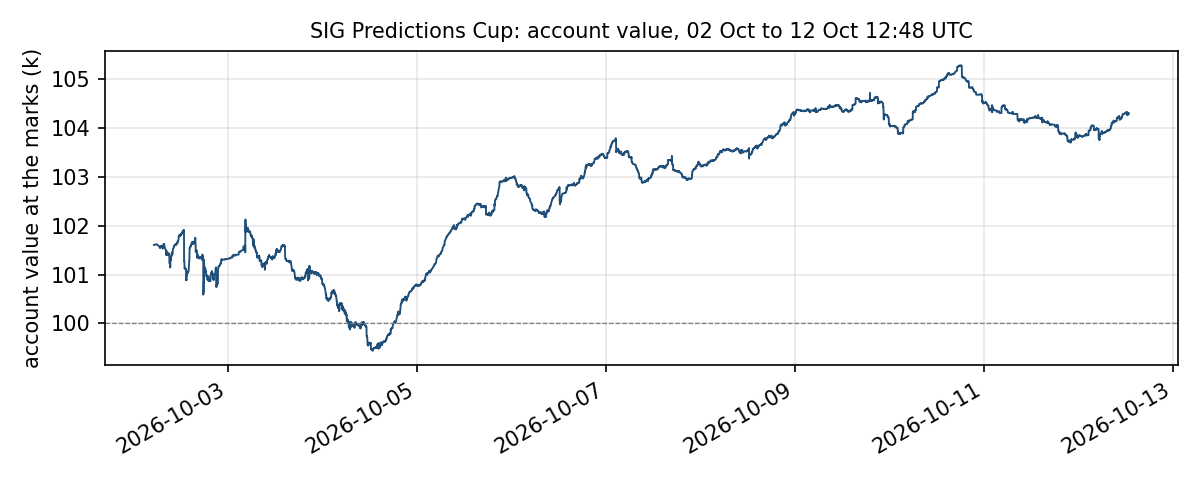
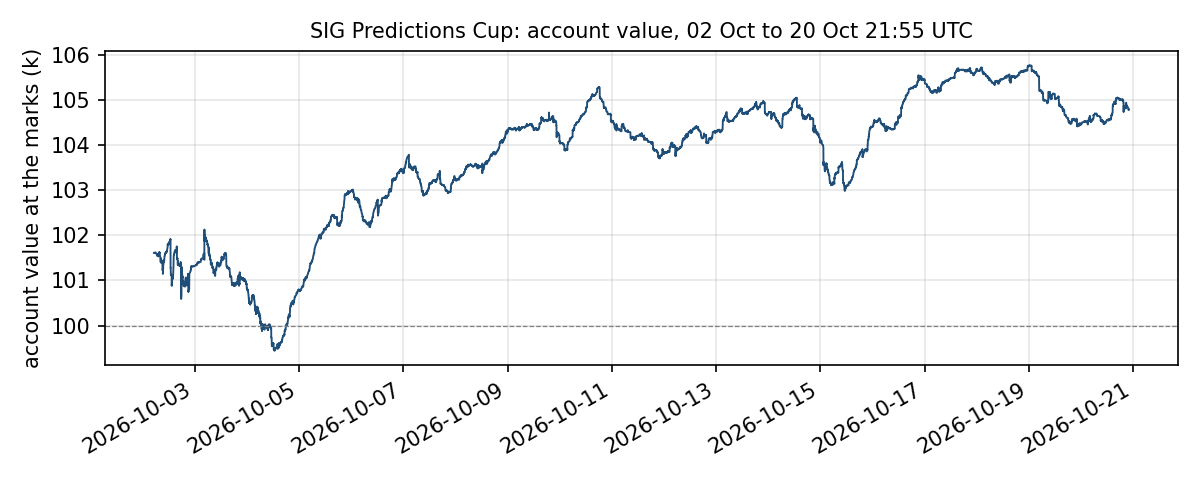
20 Oct: feed subscribes to granted channels, EV keeps last fair value; results to 20 Oct; release notes

diff --git a/mmbot/exchange.py b/mmbot/exchange.py
@@ -598,6 +598,7 @@ class Feed:
         self.wake = threading.Event()
         self.dirty, self.account_changed, self.resync = set(), False, True
         self.joined, self.revisions = set(), {}       # topics joined; topic -> last revision accepted
+        self.required, self.refused = set(), set()    # topics a session needs; optional topics refused (noted once)
         self.connected, self.stopping, self.socket_error = False, False, False
         self.thread = threading.Thread(target=lambda: asyncio.run(self.run()), name="realtime", daemon=True)
 
@@ -609,7 +610,7 @@ class Feed:
         self.stopping = True
 
     def healthy(self):
-        return self.connected and len(self.joined) >= 2
+        return self.connected and bool(self.required) and self.required <= self.joined
 
     def take(self):
         """(dirty eids, account changed?, resync?) since the last take."""
@@ -665,8 +666,11 @@ class Feed:
                 self.joined.discard(topic)
         if name == "SUBSCRIBED":
             self.flag_resync(f"subscribed to {topic.split(':')[0]}")
-        else:
+        elif topic in self.required:
             log.warning("realtime: %s -> %s %s", topic.split(":")[0], name, err or "")
+        elif topic not in self.refused:                # optional (not in the token's grant): say so once a session
+            self.refused.add(topic)
+            log.info("realtime: %s channel not granted (%s): books come from the 30 s check", topic.split(":")[0], name)
 
     def flag_resync(self, why):
         with self.lock:
@@ -711,7 +715,15 @@ class Feed:
         await client.connect()
         try:
             await client.set_auth(tok["token"])
-            topics = [f"tournament:{self.tid}", tok["channels"]["user"]]
+            # The token says which private channels this key may read. Since 12 Oct it grants only the user
+            # channel; the tournament channel (which books changed) is tried but a session lives without it.
+            granted = dict(tok.get("channels") or {})
+            topics = list(granted.values())
+            tournament = granted.get("tournament", f"tournament:{self.tid}")
+            if tournament not in topics:
+                topics.append(tournament)
+            with self.lock:
+                self.required, self.refused = set(granted.values()), set()
             for topic in topics:
                 ch = client.channel(topic, {"config": {"private": True}})
                 ch.on_broadcast("market_batch", lambda m, t=topic: self.on_market(t, m))
@@ -733,7 +745,7 @@ class Feed:
             await asyncio.sleep(1)
             if self.socket_dead(client):
                 raise ConnectionError("socket closed")
-            if len(self.joined) < len(topics) and time.monotonic() - started > JOIN_TIMEOUT_S:
+            if not self.required <= self.joined and time.monotonic() - started > JOIN_TIMEOUT_S:
                 raise ConnectionError("a channel subscription failed or dropped")
             if time.monotonic() >= deadline:
                 log.info("realtime: renewing the session")

diff --git a/mmbot/bot.py b/mmbot/bot.py
@@ -596,15 +596,18 @@ class Bot:
     # ------------------------------------------------------------------ report
     def ev_outcome(self, view):
         """(expected value at the result, held markets without a fair value): the account with every priced
-        position revalued from its mark to p (finding 3.2)."""
+        position revalued from its mark to p (finding 3.2). A position whose Polymarket quote has blinked out
+        (a thin book losing one side for a minute) keeps its last fair value rather than falling back to the
+        mark, which carries the tilt: that fallback moved the reported EV by about 1k on one Rhode Island leg."""
         ev, unpriced = view.account.value, 0
         if ev is None:
             return None, 0
         for e, q in view.positions.items():
             if not q:
                 continue
-            if e in view.p and e in self.ledger.marks:
-                ev += q * (view.p[e] - self.ledger.marks[e])
+            p = view.p.get(e, self.guard.last_p.get(e))
+            if p is not None and e in self.ledger.marks:
+                ev += q * (p - self.ledger.marks[e])
             else:
                 unpriced += 1
         return round(ev, 2), unpriced

diff --git a/mmbot/mm.py b/mmbot/mm.py
@@ -9,8 +9,7 @@ ORIGIN   Finding 3.3: market making earned little against faster bots and was de
          compare. Day one, skewing by shares put 42% of fills at or through our own fair value (-804), hence quotes
          never inside mm_min_edge of p and a price lean capped at mm_skew_max (0 live). Release 14 (P14): MM lots
          older than mm_inv_max_age_h or above mm_inv_max_usd are recycled 1c through p; lots worth holding (edge
-         held >= value_quote_hurdle) are handed to the value book instead. Old bot (tag legacy-2026-10-11): mmbot/quoting.py
-         (compute_quote, kelly_position), mmbot/mm.py (mm_lot_add, mm_lots_reconcile, mm_view, mm_recycle_quote).
+         held >= value_quote_hurdle) are handed to the value book instead.
 OPEN     The quote size (now the setting mm_quote_frac) and the 2-quote inventory cap were the old order_size_frac /
          value_mid_* defaults under an activity size plan that is not carried over: should they be settings? The old
          deferral of short buy-backs while cash was low (mm_recycle_sell_first) and the hold while an allocator sale

diff --git a/mmbot/pricing.py b/mmbot/pricing.py
@@ -9,9 +9,7 @@ NEVER    talks to the network (the bot hands in ref_prices.ReferencePrices.get()
 ORIGIN   Finding 3.2 (settlement at the result): a share is worth p whatever the leaderboard marks say, so every
          decision is scored as expected gain at the result per unit of cash. Finding 3.1 (the tilt): the book sits
          at m ~ c + (1 - s)(r - c); s is estimated from the whole cross-section every cycle and reported only
-         (status, ladder context): quoting on a tilted reference was tried and never ran live. Old bot (tag legacy-2026-10-11):
-         mmbot/pricing.py (TiltEstimator, normalise), mmbot/bot.py (reference_prices, scaled_ref, value_p,
-         update_tilt), mmbot/value.py (alloc_edge_held), mmbot/quoting.py (kelly_position).
+         (status, ladder context): quoting on a tilted reference was tried and never ran live.
 OPEN     The estimator compares RAW Polymarket r with the race-normalised book mid (as live); scaling one side
          and not the other moves s by ~0.004 (TILT_ESTIMATOR.md §1 row c). Kept as live; is that intended?
 """

diff --git a/mmbot/value.py b/mmbot/value.py
@@ -12,7 +12,6 @@ ORIGIN   The 3.7k morning (selling below value to raise cash) gave the floor. RE
          the allocator's buys earned ~11% per unit of cash, the refill sold 110k of value for 43k of buying; so a
          sale happens only when a buy can use the cash. While the reserve pauses value adds, only swaps adding no
          collateral and no national-swing exposure go (release 14.1's room netting; their buys are tagged "swap").
-         Old bot (tag legacy-2026-10-11): mmbot/value.py (alloc_*), mmbot/mm.py (swap_floor_ok), mmbot/quoting.py (value_side_prices).
          Left behind: NO+NO set unwinds (the 4 Oct book holds one set, worth 1.0), the set ladder, the momentum sleeve.
 OPEN     A swap in flight is not saved: after a restart its cash waits for the next run. The bot does not say if an
          IOC was sent or deferred, so each is offered once (a deferred one is lost, never sent twice).

diff --git a/mmbot/record.py b/mmbot/record.py
@@ -1,8 +1,8 @@
 """
 The recorder: once a minute, one row per priced market and one for the account, in run_dir/market_data.sqlite.
 
-OWNS     the sqlite file, in the old bot's schema (tag legacy-2026-10-11, mmbot/status.py: `snapshots` and `account`), so the owner's
-         analyses and the paper read it unchanged: pd.read_sql("select * from snapshots", conn).
+OWNS     the sqlite file, in the first bot's schema (`snapshots` and `account`), so the analyses and the paper read it
+         unchanged: pd.read_sql("select * from snapshots", conn).
 NEVER    spends a request (it reads the cycle's View and the bulk tops already read), or stops a cycle: a write
          error is logged and the row is lost.
 ORIGIN   The rewrite dropped it (README §10); the fix brief of 10 Oct put it back, minimal: no book or trade tables.

diff --git a/README.md b/README.md
@@ -31,19 +31,19 @@ The bot runs four strategies side by side, each with its own capital:
 | **Market making** | Quote both sides in the middle of the probability range, with a reserve of cash the allocator keeps topped up |
 | **Harvest ladder** | Trade the bias itself: resting orders that sell it only at prices better than today's |
 
-### 1.1 Results so far (interim: 12 October 2026, day 12 of 35; the tournament ends 4 November)
+### 1.1 Results so far (interim: 20 October 2026, day 20 of 35; the tournament ends 4 November)
 
-| | 12 Oct 2026, 12:48 UTC |
+| | 20 Oct 2026, 21:58 UTC |
 |---|---|
-| Account at the exchange's marks | **104,298** (+4.3% from 100,000) |
-| Expected value at settlement (cash + positions at Polymarket *p*) | **112,946** (+12.9%) |
-| Leaderboard | **182nd of 1,455** entrants (top 12.5%) |
+| Account at the exchange's marks | **104,786** (+4.8% from 100,000) |
+| Expected value at settlement (cash + positions at Polymarket *p*) | **114,487** (+14.5%) |
+| Leaderboard | **187th of 1,727** entrants (top 11%) |
 | Lowest reading | 99,441 on 4 October (−0.56% below the start) |
 | Largest peak-to-trough fall | −2.6% (3–4 October: the mark-driven selling episode of §3) |
 | Edge per fill, 2–11 October, 12,981 fills | 5.3c a share; 10.9% of the cash each fill tied up; 69.5k in total |
-| Realised profit on closed trades | about 3k |
+| Realised profit on closed trades | about 3k before the 11 October rewrite, 0.5k since |
 
-![Account value at the marks, 2–12 October 2026](docs/equity.png)
+![Account value at the marks, 2–20 October 2026](docs/equity.png)
 
 *Account value at the exchange's marks, one reading a minute. The first 37 hours are left out: with
 almost no trades in most books, the trade-based marks put the account anywhere between 100k and 150k.*
@@ -176,8 +176,9 @@ if it widens. It has its own 10k budget, carved out of the market-making reserve
 ## 5. Engineering
 
 The bot is about 4,400 lines of Python in 12 files, with 58 settings, run as a systemd service on a small
-server in the exchange's region. It is event-driven: book changes and fills arrive over a WebSocket, a cycle
-runs within 1–2 seconds, a full REST reconciliation every 30 seconds covers what the feed misses. Requests
+server in the exchange's region. It is event-driven: fills arrive over a WebSocket (book changes did too until 12 October, when the
+exchange stopped granting that channel), a cycle runs within 1–2 seconds, and a full REST reconciliation
+every 30 seconds covers what the feed misses. Requests
 are budgeted at 80 a minute and order writes at 28, below the exchange's measured limit, and an order that
 does not fit is deferred rather than dropped. Settings change through a JSON file re-read every 30 seconds;
 code changes use a handover restart that keeps the resting orders. Eight offline test suites run against a
@@ -260,5 +261,4 @@ exploitation of exchange bugs; these constraints were part of every design brief
 | `deploy/` | Service unit, server setup, the live settings as an example, `RELEASES.md` (what went live when), `RUNBOOK.md` (installing, running, operating) |
 | `docs/` | The paper (`SIG_Predictions_Cup_paper.docx`), the engineering notes on the exchange, a 10-minute talk |
 
-Installing and running it, locally or on a server, is in `deploy/RUNBOOK.md`. The bot before the rewrite,
-with its 35 test suites and the full analysis, is at the tag `legacy-2026-10-11`.
+Installing and running it, locally or on a server, is in `deploy/RUNBOOK.md`.

diff --git a/deploy/RELEASES.md b/deploy/RELEASES.md
@@ -1,7 +1,7 @@
 # Releases
 
-What went live, when, and what it switched on. Every release shipped with its new settings OFF; the files
-`deploy/package<N>/` named below were the staged `settings_override.json` that switched them on, in stages (kept in git history: tag `legacy-2026-10-11`). A
+What went live, when, and what it switched on. Every release shipped with its new settings OFF; staged settings files
+switched them on, in stages. A
 "handover" is a SIGUSR1 stop (`systemctl kill -s USR1 mmbot`, then start): the new code adopts the resting orders. Rollback copies live on
 the server under `/opt/mmbot/backup-<date>/`. Times are UTC. The commit is the code that ran.
 
@@ -35,6 +35,17 @@ as 16).
 | 7 Oct 11:54 | `value_sell_margin` 0.01 → 0.04 | Nothing in the value book was sellable within 2c of fair; 4c raised about 14k of cash for the other layers at about 470 of expected value |
 | 7 Oct 13:53 | `mm_refill_fast` → false | The fast refill retried unfilled sales every cycle and used the whole request budget; the market maker was down to 19 orders |
 | 8 Oct 14:51 | `momentum_enabled`, `momentum_auto` → false | The sleeve sold 12.9k of value to fund itself and bought nothing: its candidate filter excludes every longshot the bot is short (`analysis/reports/RETURNS_ATTRIBUTION.md`) |
+| 12 Oct 11:19 | `value_sell_margin` 0.01 → 0.03 | Demand-sized refill: the floor raises cash only for buys that are waiting |
+| 13 Oct 09:15 | `alloc_swap_min_gain` 0.05 → 0.08 (`alloc_swap_sell_margin` 0.03 → 0.05, back to 0.03 at 10:38) | A wider swap margin was tried for a widening tilt; it was not the constraint |
+| 13 Oct 10:38 | `mm_risk_reserve_wc` 20000 → 5000 | The plain-sum worst case left 14.8k of room, under the 20k reserved for market making, so value adds were paused; EV growth went from ~100 to ~400 a day |
+| 20 Oct | `worst_case_backstop_frac` 1.0 → 1.2 | The plain sum reached 96% of the account (the correlated measure, the real cap, was 23% against 40%); at 100% the bot would have gone reduce-only |
+
+## Code after the rewrite
+
+| Live from | What changed |
+|---|---|
+| 11 Oct 18:02 | Start-up and the self-test wait out a down or busy exchange instead of exiting (the 17:30 outage left the bot stopped 25 minutes) |
+| 20 Oct | The feed subscribes to the channels the token grants (the tournament channel has not been granted since 12 Oct); EV keeps a position's last fair value when its Polymarket quote blinks out |
 
 ## Lessons the releases taught
 

diff --git a/analysis/reports/VALUE_PLAN.md b/analysis/reports/VALUE_PLAN.md
@@ -49,7 +49,7 @@ The Republican Senate bet's edge came mostly from a seat-count model that put Oh
 - The close time (midnight or 17:00 UTC on 4 November) needed confirming against the API at the time.
 
 ## Details
-What the plan built, all off by default in the old bot (tag `legacy-2026-10-11`): `value_mode` (no reducing quote below *p* − 0.5c, or above *p* + 0.5c for a short, in normal and reduce-only quoting; the pre-close exit and flatten windows made inert and overridable); `bloc_delta_enabled` (a closed-form national-factor sensitivity per share replacing the share-count party cap, `max_bloc_delta_frac` 0.05 of the account per standard deviation); the hourly allocator `alloc_*` (ranks holdings by edge held and book levels by edge per dollar of collateral, sells first at the touch, then buys; refills a market-making reserve `alloc_mm_reserve` 15k from the lowest-edge holdings and paired sets at `alloc_set_cost_per_usd` 0.06); `value_quote_hurdle` with `capital_ceiling_adding_size_factor` 0.5 and `take_respect_reserve`.
+What the plan built, all off by default in the first bot: `value_mode` (no reducing quote below *p* − 0.5c, or above *p* + 0.5c for a short, in normal and reduce-only quoting; the pre-close exit and flatten windows made inert and overridable); `bloc_delta_enabled` (a closed-form national-factor sensitivity per share replacing the share-count party cap, `max_bloc_delta_frac` 0.05 of the account per standard deviation); the hourly allocator `alloc_*` (ranks holdings by edge held and book levels by edge per dollar of collateral, sells first at the touch, then buys; refills a market-making reserve `alloc_mm_reserve` 15k from the lowest-edge holdings and paired sets at `alloc_set_cost_per_usd` 0.06); `value_quote_hurdle` with `capital_ceiling_adding_size_factor` 0.5 and `take_respect_reserve`.
 
 Risk limits for an outcome-settled book: `max_worst_case_frac` 0.30 → 0.35; `worst_case_backstop_frac` 0.8 → 1.3 (at 0.8 it pinned the book reduce-only: worst case 82k against 80.8k); the kill switch `max_drawdown_pct` 0.30 on marks → 0.40 or settlement-based. Ruin numbers: value book 0.6 to 1.9% chance below 85k; with a 20k bet 4 to 5%; at 25k or more 49 to 65%.
 

diff --git a/docs/ENGINEERING_NOTES.md b/docs/ENGINEERING_NOTES.md
@@ -1,8 +1,7 @@
 # Engineering notes: what the exchange taught us
 
 Facts about The Super Market API learnt in the first days of trading (1–3 October 2026) that the bot is
-built around. Everything here is measured, not read from documentation. The longer original notes, with the
-scenarios and experiments behind each item, are at the tag `legacy-2026-10-11`.
+built around. Everything here is measured, not read from documentation.
 
 ## Rate limits
 
@@ -24,6 +23,12 @@ scenarios and experiments behind each item, are at the tag `legacy-2026-10-11`.
 - The realtime feed (Supabase WebSocket) flags that a book changed but carries no levels; the book is
   re-read over REST. The feed drops a few times a day with code 1006 and does not auto-reconnect: the bot
   detects a dead socket and reconnects; a full REST reconciliation every 30 s covers what the feed misses.
+- The realtime token names the channels a key may read. On 12 October the exchange stopped granting the
+  tournament channel (book changes); only the user channel (fills) remains. A bot that insists on both
+  reconnects every minute for days; the bot now subscribes to what the token grants and treats the rest as
+  optional.
+- A position whose Polymarket quote blinks out (a thin book losing one side for a minute) must keep its last
+  fair value: valued at the exchange mark instead, one Rhode Island leg moved the reported EV by 1k.
 - The exchange went unresponsive for about 20 minutes on 7 October. The watchdog (no cycle for 10 minutes
   → cancel everything, exit, systemd restarts) handled it.
 

diff --git a/analysis/reports/RETURNS_ATTRIBUTION.md b/analysis/reports/RETURNS_ATTRIBUTION.md
@@ -72,4 +72,4 @@ The 10 October update reversed one line: the harvest ladder, idle in the first w
 ## Details
 Settings changes proposed from the first window: `momentum_auto` false; `value_sell_margin` 0.04 → 0.01 (the wide floor existed to fund the sleeve and market making); `alloc_mm_reserve` 20000 → 2000 or 0 (the refill stops draining value positions and the 10k of free cash in the reserve goes to buys at about 10% edge). Expected effect: the refill's −400/day stops and the reallocation step returns to its 5 October pace of +290/day net.
 
-Expected value here means value at settlement with positions at *p*, as opposed to the exchange's marks. The momentum candidate filter is the function that lists momentum candidates in the old bot (tag `legacy-2026-10-11`). The parser is `analysis/returns_attribution.py`.
+Expected value here means value at settlement with positions at *p*, as opposed to the exchange's marks. The momentum candidate filter is the function that listed momentum candidates in the first bot.

diff --git a/analysis/README.md b/analysis/README.md
@@ -1,8 +1,6 @@
 # Analysis
 
-The research the bot's design rests on, and the four tools that read its recorder. Everything else from the
-build (dry runs, idea rounds, the old log-format tools, eight further reports including a literature review) is at the tag `legacy-2026-10-11`
-and on the branch `archive/build-notes-2026-10`.
+The research the bot's design rests on, and the four tools that read its recorder.
 
 | Report | What it answers |
 |---|---|
